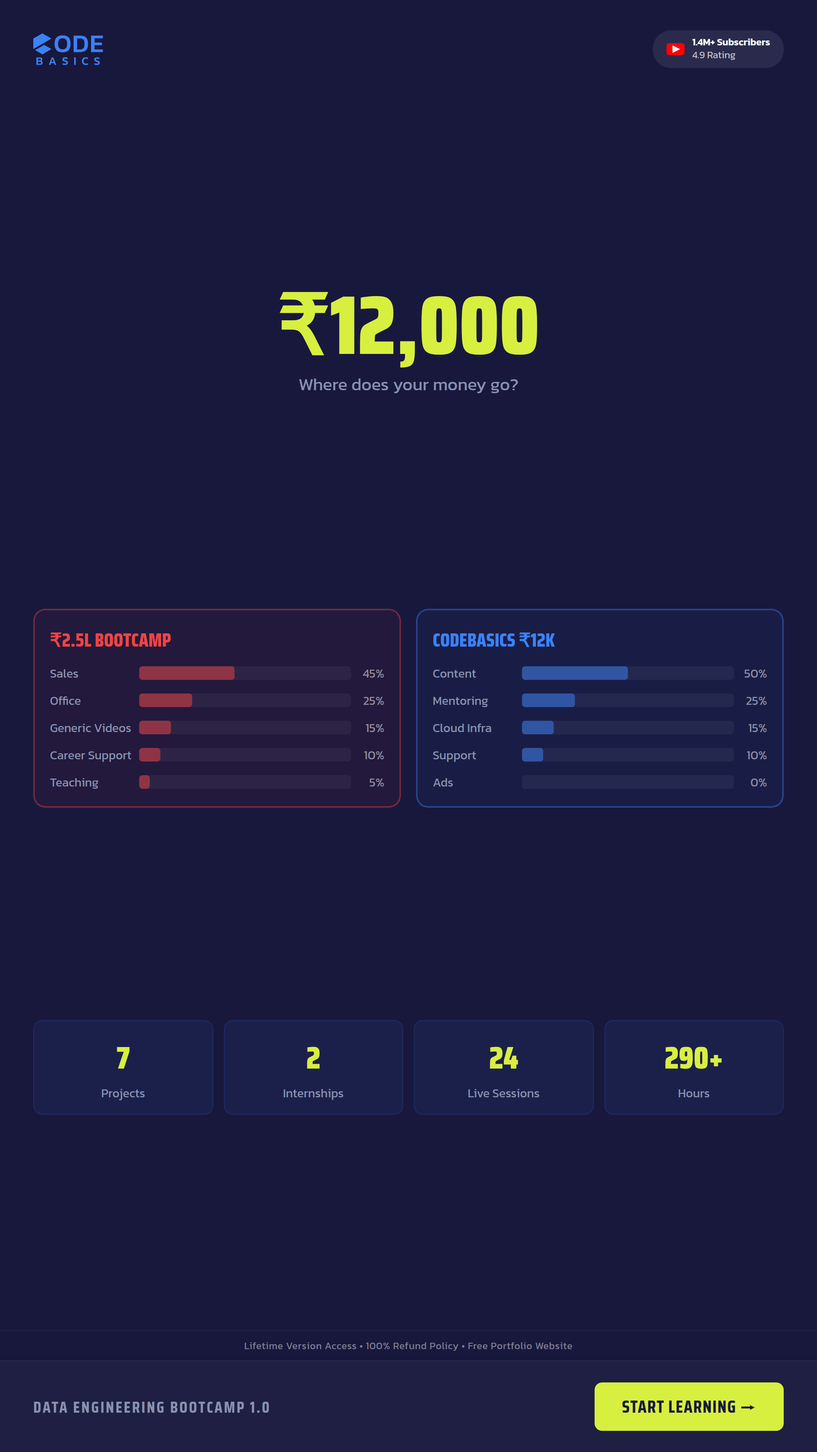
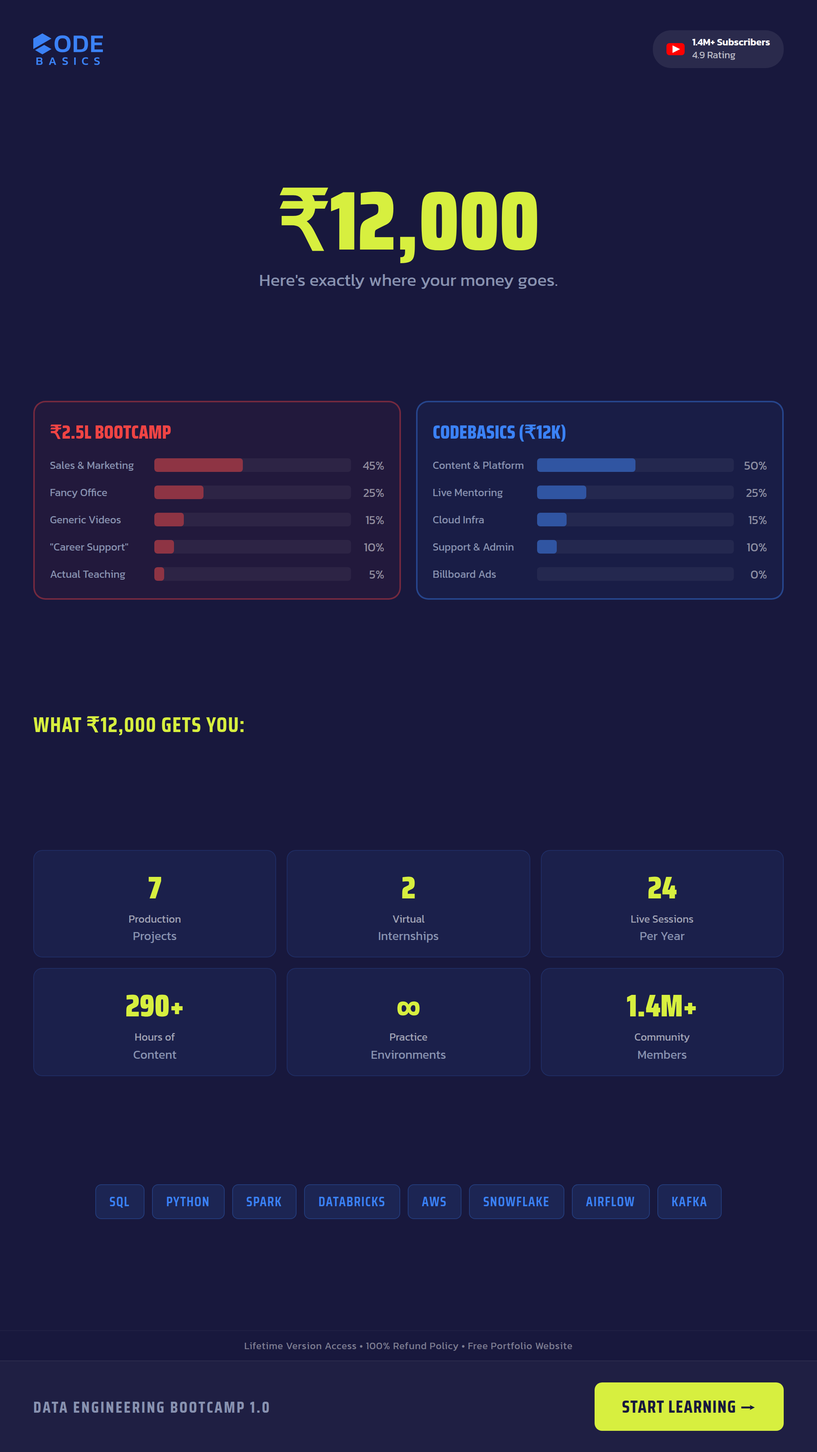
Update CONCEPT2 story + landscape with exact content to match square
- All 3 CONCEPT2 formats now have identical content:
  Full comparison labels (Sales & Marketing, Fancy Office, etc.)
  "What ₹12,000 Gets You:" heading with 6 value cards
  8 tech pills (SQL through KAFKA)
- Regenerated story and landscape PNGs at 2x resolution

https://claude.ai/code/session_01TbjDQjG9557EXEwBaycqRj

diff --git a/fix-concept2-all.js b/fix-concept2-all.js
@@ -1,0 +1,178 @@
+const fs = require('fs');
+const path = require('path');
+
+function updateContent(html) {
+  // 1. Update subtitle text
+  html = html.replace(
+    'Where does your money go?',
+    "Here's exactly where your money goes."
+  );
+
+  // 2. Update left comparison box labels
+  html = html.replace(/<span class="bar-label">Sales<\/span>/, '<span class="bar-label">Sales & Marketing</span>');
+  html = html.replace(/<span class="bar-label">Office<\/span>/, '<span class="bar-label">Fancy Office</span>');
+  // Generic Videos stays the same
+  html = html.replace(/<span class="bar-label">Career Support<\/span>/, '<span class="bar-label">"Career Support"</span>');
+  html = html.replace(/<span class="bar-label">Teaching<\/span>/, '<span class="bar-label">Actual Teaching</span>');
+
+  // 3. Update right comparison box title and labels
+  html = html.replace('Codebasics ₹12K', 'Codebasics (₹12K)');
+  html = html.replace(/<span class="bar-label">Content<\/span>/, '<span class="bar-label">Content & Platform</span>');
+  html = html.replace(/<span class="bar-label">Mentoring<\/span>/, '<span class="bar-label">Live Mentoring</span>');
+  // Cloud Infra stays the same
+  html = html.replace(/<span class="bar-label">Support<\/span>/, '<span class="bar-label">Support & Admin</span>');
+  html = html.replace(/<span class="bar-label">Ads<\/span>/, '<span class="bar-label">Billboard Ads</span>');
+
+  return html;
+}
+
+// ============ STORY ============
+const storyFile = path.resolve(__dirname, 'ads/story/CONCEPT2_STORY_1080x1920.html');
+let storyHtml = fs.readFileSync(storyFile, 'utf8');
+
+storyHtml = updateContent(storyHtml);
+
+// Replace value grid with 6-item grid + heading + tech pills
+const storyOldGrid = `<div class="value-grid">
+      <div class="value-card"><div class="value-num">7</div><div class="value-label">Projects</div></div>
+      <div class="value-card"><div class="value-num">2</div><div class="value-label">Internships</div></div>
+      <div class="value-card"><div class="value-num">24</div><div class="value-label">Live Sessions</div></div>
+      <div class="value-card"><div class="value-num">290+</div><div class="value-label">Hours</div></div>
+    </div>`;
+
+const storyNewGrid = `<div class="value-heading">What ₹12,000 Gets You:</div>
+    <div class="value-grid">
+      <div class="value-card"><div class="value-num">7</div><div class="value-sub">Production</div><div class="value-label">Projects</div></div>
+      <div class="value-card"><div class="value-num">2</div><div class="value-sub">Virtual</div><div class="value-label">Internships</div></div>
+      <div class="value-card"><div class="value-num">24</div><div class="value-sub">Live Sessions</div><div class="value-label">Per Year</div></div>
+      <div class="value-card"><div class="value-num">290+</div><div class="value-sub">Hours of</div><div class="value-label">Content</div></div>
+      <div class="value-card"><div class="value-num">∞</div><div class="value-sub">Practice</div><div class="value-label">Environments</div></div>
+      <div class="value-card"><div class="value-num">1.4M+</div><div class="value-sub">Community</div><div class="value-label">Members</div></div>
+    </div>
+    <div class="tech-pills">
+      <span class="pill">SQL</span>
+      <span class="pill">PYTHON</span>
+      <span class="pill">SPARK</span>
+      <span class="pill">DATABRICKS</span>
+      <span class="pill">AWS</span>
+      <span class="pill">SNOWFLAKE</span>
+      <span class="pill">AIRFLOW</span>
+      <span class="pill">KAFKA</span>
+    </div>`;
+
+storyHtml = storyHtml.replace(storyOldGrid, storyNewGrid);
+
+// Update grid to 3 columns
+storyHtml = storyHtml.replace(
+  '.value-grid{display:grid;grid-template-columns:repeat(4,1fr);gap:14px}',
+  '.value-grid{display:grid;grid-template-columns:repeat(3,1fr);gap:14px}'
+);
+
+// Widen bar-label for story
+storyHtml = storyHtml.replace(
+  '.bar-label{font-size:16px;color:#8892b0;width:110px;',
+  '.bar-label{font-size:14px;color:#8892b0;width:130px;'
+);
+
+// Add new CSS for story before .cta-bar
+const storyCss = `.value-heading{font-family:'Saira Condensed',sans-serif;font-weight:700;font-size:28px;color:#D7EF3F;text-transform:uppercase;letter-spacing:1px}
+.value-sub{font-size:14px;color:rgba(255,255,255,.6);margin-top:2px;line-height:1.1}
+.tech-pills{display:flex;flex-wrap:wrap;gap:10px;justify-content:center}
+.pill{background:rgba(59,130,246,.12);border:1px solid rgba(59,130,246,.25);border-radius:8px;padding:8px 18px;font-family:'Saira Condensed',sans-serif;font-weight:600;font-size:18px;color:#3B82F6;text-transform:uppercase;letter-spacing:1px}
+`;
+storyHtml = storyHtml.replace('.cta-bar{', storyCss + '.cta-bar{');
+
+fs.writeFileSync(storyFile, storyHtml, 'utf8');
+console.log('Updated CONCEPT2_STORY_1080x1920.html');
+
+// ============ LANDSCAPE ============
+const landFile = path.resolve(__dirname, 'ads/landscape/CONCEPT2_LANDSCAPE_1200x628.html');
+let landHtml = fs.readFileSync(landFile, 'utf8');
+
+landHtml = updateContent(landHtml);
+
+// Replace value grid with 6-item grid + heading + tech pills
+// Landscape has a different structure: value-grid is inside .left
+const landOldGrid = `<div class="value-grid">
+        <div class="value-card"><div class="value-num">7</div><div class="value-label">Projects</div></div>
+        <div class="value-card"><div class="value-num">2</div><div class="value-label">Internships</div></div>
+        <div class="value-card"><div class="value-num">24</div><div class="value-label">Live Sessions</div></div>
+        <div class="value-card"><div class="value-num">290+</div><div class="value-label">Hours</div></div>
+      </div>`;
+
+const landNewGrid = `<div class="value-heading">What ₹12,000 Gets You:</div>
+      <div class="value-grid">
+        <div class="value-card"><div class="value-num">7</div><div class="value-sub">Production</div><div class="value-label">Projects</div></div>
+        <div class="value-card"><div class="value-num">2</div><div class="value-sub">Virtual</div><div class="value-label">Internships</div></div>
+        <div class="value-card"><div class="value-num">24</div><div class="value-sub">Live Sessions</div><div class="value-label">Per Year</div></div>
+        <div class="value-card"><div class="value-num">290+</div><div class="value-sub">Hours of</div><div class="value-label">Content</div></div>
+        <div class="value-card"><div class="value-num">∞</div><div class="value-sub">Practice</div><div class="value-label">Environments</div></div>
+        <div class="value-card"><div class="value-num">1.4M+</div><div class="value-sub">Community</div><div class="value-label">Members</div></div>
+      </div>
+      <div class="tech-pills">
+        <span class="pill">SQL</span>
+        <span class="pill">PYTHON</span>
+        <span class="pill">SPARK</span>
+        <span class="pill">DATABRICKS</span>
+        <span class="pill">AWS</span>
+        <span class="pill">SNOWFLAKE</span>
+        <span class="pill">AIRFLOW</span>
+        <span class="pill">KAFKA</span>
+      </div>`;
+
+landHtml = landHtml.replace(landOldGrid, landNewGrid);
+
+// Update grid to 3 columns for landscape
+landHtml = landHtml.replace(
+  '.value-grid{display:grid;grid-template-columns:repeat(2,1fr);gap:8px}',
+  '.value-grid{display:grid;grid-template-columns:repeat(3,1fr);gap:6px}'
+);
+
+// Widen bar-label for landscape (longer labels)
+landHtml = landHtml.replace(
+  '.bar-label{font-size:12px;color:#8892b0;width:76px;',
+  '.bar-label{font-size:10px;color:#8892b0;width:90px;'
+);
+
+// Reduce left panel width to give more room
+landHtml = landHtml.replace(
+  '.left{flex:0 0 30%;',
+  '.left{flex:0 0 34%;'
+);
+
+// Reduce value card padding and num size for landscape to fit 6 items
+landHtml = landHtml.replace(
+  '.value-card{background:rgba(59,130,246,.08);border:1px solid rgba(59,130,246,.15);border-radius:8px;padding:8px 6px;text-align:center}',
+  '.value-card{background:rgba(59,130,246,.08);border:1px solid rgba(59,130,246,.15);border-radius:6px;padding:4px 4px;text-align:center}'
+);
+landHtml = landHtml.replace(
+  ".value-num{font-family:'Saira Condensed',sans-serif;font-weight:900;font-size:25px;",
+  ".value-num{font-family:'Saira Condensed',sans-serif;font-weight:900;font-size:18px;"
+);
+
+// Reduce price font for landscape to fit
+landHtml = landHtml.replace(
+  ".price-hero .big{font-family:'Saira Condensed',sans-serif;font-weight:900;font-size:64px;",
+  ".price-hero .big{font-family:'Saira Condensed',sans-serif;font-weight:900;font-size:52px;"
+);
+landHtml = landHtml.replace(
+  '.price-hero .sub{font-size:15px;',
+  '.price-hero .sub{font-size:12px;'
+);
+
+// Reduce left gap
+landHtml = landHtml.replace(
+  'justify-content:center;gap:14px}',
+  'justify-content:center;gap:8px}'
+);
+
+// Add new CSS for landscape before .cta-bar
+const landCss = `.value-heading{font-family:'Saira Condensed',sans-serif;font-weight:700;font-size:13px;color:#D7EF3F;text-transform:uppercase;letter-spacing:1px}
+.value-sub{font-size:8px;color:rgba(255,255,255,.6);margin-top:1px;line-height:1.1}
+.tech-pills{display:flex;flex-wrap:wrap;gap:4px;justify-content:center}
+.pill{background:rgba(59,130,246,.12);border:1px solid rgba(59,130,246,.25);border-radius:4px;padding:3px 8px;font-family:'Saira Condensed',sans-serif;font-weight:600;font-size:9px;color:#3B82F6;text-transform:uppercase;letter-spacing:1px}
+`;
+landHtml = landHtml.replace('.cta-bar{', landCss + '.cta-bar{');
+
+fs.writeFileSync(landFile, landHtml, 'utf8');
+console.log('Updated CONCEPT2_LANDSCAPE_1200x628.html');

diff --git a/ads/landscape/CONCEPT2_LANDSCAPE_1200x628.html b/ads/landscape/CONCEPT2_LANDSCAPE_1200x628.html
@@ -30,12 +30,12 @@ body{width:1200px;height:628px;overflow:hidden;font-family:'Kanit',sans-serif}
 
 .main{flex:1;display:flex;gap:24px;padding:14px 32px;min-height:0}
 
-.left{flex:0 0 30%;display:flex;flex-direction:column;justify-content:center;gap:14px}
-.price-hero .big{font-family:'Saira Condensed',sans-serif;font-weight:900;font-size:64px;color:#D7EF3F;line-height:1}
-.price-hero .sub{font-size:15px;color:#8892b0;margin-top:2px}
-.value-grid{display:grid;grid-template-columns:repeat(2,1fr);gap:8px}
-.value-card{background:rgba(59,130,246,.08);border:1px solid rgba(59,130,246,.15);border-radius:8px;padding:8px 6px;text-align:center}
-.value-num{font-family:'Saira Condensed',sans-serif;font-weight:900;font-size:25px;color:#D7EF3F}
+.left{flex:0 0 34%;display:flex;flex-direction:column;justify-content:center;gap:8px}
+.price-hero .big{font-family:'Saira Condensed',sans-serif;font-weight:900;font-size:52px;color:#D7EF3F;line-height:1}
+.price-hero .sub{font-size:12px;color:#8892b0;margin-top:2px}
+.value-grid{display:grid;grid-template-columns:repeat(3,1fr);gap:6px}
+.value-card{background:rgba(59,130,246,.08);border:1px solid rgba(59,130,246,.15);border-radius:6px;padding:4px 4px;text-align:center}
+.value-num{font-family:'Saira Condensed',sans-serif;font-weight:900;font-size:18px;color:#D7EF3F}
 .value-label{font-size:10px;color:#8892b0;margin-top:1px}
 
 .right{flex:1;display:flex;gap:14px;min-height:0}
@@ -46,13 +46,17 @@ body{width:1200px;height:628px;overflow:hidden;font-family:'Kanit',sans-serif}
 .comp-box.red .comp-title{color:#ef4444}
 .comp-box.blue .comp-title{color:#3B82F6}
 .bar-row{display:flex;align-items:center;gap:6px}
-.bar-label{font-size:12px;color:#8892b0;width:76px;flex-shrink:0}
+.bar-label{font-size:10px;color:#8892b0;width:90px;flex-shrink:0}
 .bar-track{flex:1;height:12px;background:rgba(255,255,255,.05);border-radius:3px;overflow:hidden}
 .bar-fill{height:100%;border-radius:3px}
 .comp-box.red .bar-fill{background:rgba(239,68,68,.5)}
 .comp-box.blue .bar-fill{background:rgba(59,130,246,.5)}
 .bar-pct{font-size:12px;color:rgba(255,255,255,.5);width:28px;text-align:right;flex-shrink:0}
 
+.value-heading{font-family:'Saira Condensed',sans-serif;font-weight:700;font-size:13px;color:#D7EF3F;text-transform:uppercase;letter-spacing:1px}
+.value-sub{font-size:8px;color:rgba(255,255,255,.6);margin-top:1px;line-height:1.1}
+.tech-pills{display:flex;flex-wrap:wrap;gap:4px;justify-content:center}
+.pill{background:rgba(59,130,246,.12);border:1px solid rgba(59,130,246,.25);border-radius:4px;padding:3px 8px;font-family:'Saira Condensed',sans-serif;font-weight:600;font-size:9px;color:#3B82F6;text-transform:uppercase;letter-spacing:1px}
 .cta-bar{display:flex;justify-content:space-between;align-items:center;padding:14px 32px;background:rgba(255,255,255,.03);border-top:1px solid rgba(255,255,255,.06);flex-shrink:0}
 .cta-label{font-family:'Saira Condensed',sans-serif;font-weight:700;font-size:15px;text-transform:uppercase;letter-spacing:2px;color:#8892b0}
 .cta-btn{background:#D7EF3F;color:#18183D;font-family:'Saira Condensed',sans-serif;font-weight:700;font-size:16px;padding:8px 24px;border-radius:7px;border:none;text-transform:uppercase;letter-spacing:1px;cursor:pointer;white-space:nowrap}
@@ -67,30 +71,43 @@ body{width:1200px;height:628px;overflow:hidden;font-family:'Kanit',sans-serif}
   </div>
   <div class="main">
     <div class="left">
-      <div class="price-hero"><div class="big">₹12,000</div><div class="sub">Where does your money go?</div></div>
+      <div class="price-hero"><div class="big">₹12,000</div><div class="sub">Here's exactly where your money goes.</div></div>
+      <div class="value-heading">What ₹12,000 Gets You:</div>
       <div class="value-grid">
-        <div class="value-card"><div class="value-num">7</div><div class="value-label">Projects</div></div>
-        <div class="value-card"><div class="value-num">2</div><div class="value-label">Internships</div></div>
-        <div class="value-card"><div class="value-num">24</div><div class="value-label">Live Sessions</div></div>
-        <div class="value-card"><div class="value-num">290+</div><div class="value-label">Hours</div></div>
+        <div class="value-card"><div class="value-num">7</div><div class="value-sub">Production</div><div class="value-label">Projects</div></div>
+        <div class="value-card"><div class="value-num">2</div><div class="value-sub">Virtual</div><div class="value-label">Internships</div></div>
+        <div class="value-card"><div class="value-num">24</div><div class="value-sub">Live Sessions</div><div class="value-label">Per Year</div></div>
+        <div class="value-card"><div class="value-num">290+</div><div class="value-sub">Hours of</div><div class="value-label">Content</div></div>
+        <div class="value-card"><div class="value-num">∞</div><div class="value-sub">Practice</div><div class="value-label">Environments</div></div>
+        <div class="value-card"><div class="value-num">1.4M+</div><div class="value-sub">Community</div><div class="value-label">Members</div></div>
+      </div>
+      <div class="tech-pills">
+        <span class="pill">SQL</span>
+        <span class="pill">PYTHON</span>
+        <span class="pill">SPARK</span>
+        <span class="pill">DATABRICKS</span>
+        <span class="pill">AWS</span>
+        <span class="pill">SNOWFLAKE</span>
+        <span class="pill">AIRFLOW</span>
+        <span class="pill">KAFKA</span>
       </div>
     </div>
     <div class="right">
       <div class="comp-box red">
         <div class="comp-title">₹2.5L Bootcamp</div>
-        <div class="bar-row"><span class="bar-label">Sales</span><div class="bar-track"><div class="bar-fill" style="width:45%"></div></div><span class="bar-pct">45%</span></div>
-        <div class="bar-row"><span class="bar-label">Office</span><div class="bar-track"><div class="bar-fill" style="width:25%"></div></div><span class="bar-pct">25%</span></div>
+        <div class="bar-row"><span class="bar-label">Sales & Marketing</span><div class="bar-track"><div class="bar-fill" style="width:45%"></div></div><span class="bar-pct">45%</span></div>
+        <div class="bar-row"><span class="bar-label">Fancy Office</span><div class="bar-track"><div class="bar-fill" style="width:25%"></div></div><span class="bar-pct">25%</span></div>
         <div class="bar-row"><span class="bar-label">Generic Videos</span><div class="bar-track"><div class="bar-fill" style="width:15%"></div></div><span class="bar-pct">15%</span></div>
-        <div class="bar-row"><span class="bar-label">Career Support</span><div class="bar-track"><div class="bar-fill" style="width:10%"></div></div><span class="bar-pct">10%</span></div>
-        <div class="bar-row"><span class="bar-label">Teaching</span><div class="bar-track"><div class="bar-fill" style="width:5%"></div></div><span class="bar-pct">5%</span></div>
+        <div class="bar-row"><span class="bar-label">"Career Support"</span><div class="bar-track"><div class="bar-fill" style="width:10%"></div></div><span class="bar-pct">10%</span></div>
+        <div class="bar-row"><span class="bar-label">Actual Teaching</span><div class="bar-track"><div class="bar-fill" style="width:5%"></div></div><span class="bar-pct">5%</span></div>
       </div>
       <div class="comp-box blue">
-        <div class="comp-title">Codebasics ₹12K</div>
-        <div class="bar-row"><span class="bar-label">Content</span><div class="bar-track"><div class="bar-fill" style="width:50%"></div></div><span class="bar-pct">50%</span></div>
-        <div class="bar-row"><span class="bar-label">Mentoring</span><div class="bar-track"><div class="bar-fill" style="width:25%"></div></div><span class="bar-pct">25%</span></div>
+        <div class="comp-title">Codebasics (₹12K)</div>
+        <div class="bar-row"><span class="bar-label">Content & Platform</span><div class="bar-track"><div class="bar-fill" style="width:50%"></div></div><span class="bar-pct">50%</span></div>
+        <div class="bar-row"><span class="bar-label">Live Mentoring</span><div class="bar-track"><div class="bar-fill" style="width:25%"></div></div><span class="bar-pct">25%</span></div>
         <div class="bar-row"><span class="bar-label">Cloud Infra</span><div class="bar-track"><div class="bar-fill" style="width:15%"></div></div><span class="bar-pct">15%</span></div>
-        <div class="bar-row"><span class="bar-label">Support</span><div class="bar-track"><div class="bar-fill" style="width:10%"></div></div><span class="bar-pct">10%</span></div>
-        <div class="bar-row"><span class="bar-label">Ads</span><div class="bar-track"><div class="bar-fill" style="width:0%"></div></div><span class="bar-pct">0%</span></div>
+        <div class="bar-row"><span class="bar-label">Support & Admin</span><div class="bar-track"><div class="bar-fill" style="width:10%"></div></div><span class="bar-pct">10%</span></div>
+        <div class="bar-row"><span class="bar-label">Billboard Ads</span><div class="bar-track"><div class="bar-fill" style="width:0%"></div></div><span class="bar-pct">0%</span></div>
       </div>
     </div>
   </div>

diff --git a/ads/story/CONCEPT2_STORY_1080x1920.html b/ads/story/CONCEPT2_STORY_1080x1920.html
@@ -42,18 +42,22 @@ body{width:1080px;height:1920px;overflow:hidden;font-family:'Kanit',sans-serif}
 .comp-box.red .comp-title{color:#ef4444}
 .comp-box.blue .comp-title{color:#3B82F6}
 .bar-row{display:flex;align-items:center;gap:8px}
-.bar-label{font-size:16px;color:#8892b0;width:110px;flex-shrink:0}
+.bar-label{font-size:14px;color:#8892b0;width:130px;flex-shrink:0}
 .bar-track{flex:1;height:18px;background:rgba(255,255,255,.05);border-radius:4px;overflow:hidden}
 .bar-fill{height:100%;border-radius:4px}
 .comp-box.red .bar-fill{background:rgba(239,68,68,.5)}
 .comp-box.blue .bar-fill{background:rgba(59,130,246,.5)}
 .bar-pct{font-size:16px;color:rgba(255,255,255,.5);width:36px;text-align:right;flex-shrink:0}
 
-.value-grid{display:grid;grid-template-columns:repeat(4,1fr);gap:14px}
+.value-grid{display:grid;grid-template-columns:repeat(3,1fr);gap:14px}
 .value-card{background:rgba(59,130,246,.08);border:1px solid rgba(59,130,246,.15);border-radius:12px;padding:16px 10px;text-align:center}
 .value-num{font-family:'Saira Condensed',sans-serif;font-weight:900;font-size:41px;color:#D7EF3F}
 .value-label{font-size:16px;color:#8892b0;margin-top:2px}
 
+.value-heading{font-family:'Saira Condensed',sans-serif;font-weight:700;font-size:28px;color:#D7EF3F;text-transform:uppercase;letter-spacing:1px}
+.value-sub{font-size:14px;color:rgba(255,255,255,.6);margin-top:2px;line-height:1.1}
+.tech-pills{display:flex;flex-wrap:wrap;gap:10px;justify-content:center}
+.pill{background:rgba(59,130,246,.12);border:1px solid rgba(59,130,246,.25);border-radius:8px;padding:8px 18px;font-family:'Saira Condensed',sans-serif;font-weight:600;font-size:18px;color:#3B82F6;text-transform:uppercase;letter-spacing:1px}
 .cta-bar{display:flex;justify-content:space-between;align-items:center;padding:28px 44px;background:rgba(255,255,255,.03);border-top:1px solid rgba(255,255,255,.06);flex-shrink:0}
 .cta-label{font-family:'Saira Condensed',sans-serif;font-weight:700;font-size:21px;text-transform:uppercase;letter-spacing:2px;color:#8892b0}
 .cta-btn{background:#D7EF3F;color:#18183D;font-family:'Saira Condensed',sans-serif;font-weight:700;font-size:23px;padding:14px 36px;border-radius:10px;border:none;text-transform:uppercase;letter-spacing:1px;cursor:pointer;white-space:nowrap}
@@ -67,30 +71,43 @@ body{width:1080px;height:1920px;overflow:hidden;font-family:'Kanit',sans-serif}
     <div class="yt-badge"><div class="yt-icon"></div><div class="yt-text"><strong>1.4M+ Subscribers</strong><br>4.9 Rating</div></div>
   </div>
   <div class="main">
-    <div class="price-hero"><div class="big">₹12,000</div><div class="sub">Where does your money go?</div></div>
+    <div class="price-hero"><div class="big">₹12,000</div><div class="sub">Here's exactly where your money goes.</div></div>
     <div class="comparison">
       <div class="comp-box red">
         <div class="comp-title">₹2.5L Bootcamp</div>
-        <div class="bar-row"><span class="bar-label">Sales</span><div class="bar-track"><div class="bar-fill" style="width:45%"></div></div><span class="bar-pct">45%</span></div>
-        <div class="bar-row"><span class="bar-label">Office</span><div class="bar-track"><div class="bar-fill" style="width:25%"></div></div><span class="bar-pct">25%</span></div>
+        <div class="bar-row"><span class="bar-label">Sales & Marketing</span><div class="bar-track"><div class="bar-fill" style="width:45%"></div></div><span class="bar-pct">45%</span></div>
+        <div class="bar-row"><span class="bar-label">Fancy Office</span><div class="bar-track"><div class="bar-fill" style="width:25%"></div></div><span class="bar-pct">25%</span></div>
         <div class="bar-row"><span class="bar-label">Generic Videos</span><div class="bar-track"><div class="bar-fill" style="width:15%"></div></div><span class="bar-pct">15%</span></div>
-        <div class="bar-row"><span class="bar-label">Career Support</span><div class="bar-track"><div class="bar-fill" style="width:10%"></div></div><span class="bar-pct">10%</span></div>
-        <div class="bar-row"><span class="bar-label">Teaching</span><div class="bar-track"><div class="bar-fill" style="width:5%"></div></div><span class="bar-pct">5%</span></div>
+        <div class="bar-row"><span class="bar-label">"Career Support"</span><div class="bar-track"><div class="bar-fill" style="width:10%"></div></div><span class="bar-pct">10%</span></div>
+        <div class="bar-row"><span class="bar-label">Actual Teaching</span><div class="bar-track"><div class="bar-fill" style="width:5%"></div></div><span class="bar-pct">5%</span></div>
       </div>
       <div class="comp-box blue">
-        <div class="comp-title">Codebasics ₹12K</div>
-        <div class="bar-row"><span class="bar-label">Content</span><div class="bar-track"><div class="bar-fill" style="width:50%"></div></div><span class="bar-pct">50%</span></div>
-        <div class="bar-row"><span class="bar-label">Mentoring</span><div class="bar-track"><div class="bar-fill" style="width:25%"></div></div><span class="bar-pct">25%</span></div>
+        <div class="comp-title">Codebasics (₹12K)</div>
+        <div class="bar-row"><span class="bar-label">Content & Platform</span><div class="bar-track"><div class="bar-fill" style="width:50%"></div></div><span class="bar-pct">50%</span></div>
+        <div class="bar-row"><span class="bar-label">Live Mentoring</span><div class="bar-track"><div class="bar-fill" style="width:25%"></div></div><span class="bar-pct">25%</span></div>
         <div class="bar-row"><span class="bar-label">Cloud Infra</span><div class="bar-track"><div class="bar-fill" style="width:15%"></div></div><span class="bar-pct">15%</span></div>
-        <div class="bar-row"><span class="bar-label">Support</span><div class="bar-track"><div class="bar-fill" style="width:10%"></div></div><span class="bar-pct">10%</span></div>
-        <div class="bar-row"><span class="bar-label">Ads</span><div class="bar-track"><div class="bar-fill" style="width:0%"></div></div><span class="bar-pct">0%</span></div>
+        <div class="bar-row"><span class="bar-label">Support & Admin</span><div class="bar-track"><div class="bar-fill" style="width:10%"></div></div><span class="bar-pct">10%</span></div>
+        <div class="bar-row"><span class="bar-label">Billboard Ads</span><div class="bar-track"><div class="bar-fill" style="width:0%"></div></div><span class="bar-pct">0%</span></div>
       </div>
     </div>
+    <div class="value-heading">What ₹12,000 Gets You:</div>
     <div class="value-grid">
-      <div class="value-card"><div class="value-num">7</div><div class="value-label">Projects</div></div>
-      <div class="value-card"><div class="value-num">2</div><div class="value-label">Internships</div></div>
-      <div class="value-card"><div class="value-num">24</div><div class="value-label">Live Sessions</div></div>
-      <div class="value-card"><div class="value-num">290+</div><div class="value-label">Hours</div></div>
+      <div class="value-card"><div class="value-num">7</div><div class="value-sub">Production</div><div class="value-label">Projects</div></div>
+      <div class="value-card"><div class="value-num">2</div><div class="value-sub">Virtual</div><div class="value-label">Internships</div></div>
+      <div class="value-card"><div class="value-num">24</div><div class="value-sub">Live Sessions</div><div class="value-label">Per Year</div></div>
+      <div class="value-card"><div class="value-num">290+</div><div class="value-sub">Hours of</div><div class="value-label">Content</div></div>
+      <div class="value-card"><div class="value-num">∞</div><div class="value-sub">Practice</div><div class="value-label">Environments</div></div>
+      <div class="value-card"><div class="value-num">1.4M+</div><div class="value-sub">Community</div><div class="value-label">Members</div></div>
+    </div>
+    <div class="tech-pills">
+      <span class="pill">SQL</span>
+      <span class="pill">PYTHON</span>
+      <span class="pill">SPARK</span>
+      <span class="pill">DATABRICKS</span>
+      <span class="pill">AWS</span>
+      <span class="pill">SNOWFLAKE</span>
+      <span class="pill">AIRFLOW</span>
+      <span class="pill">KAFKA</span>
     </div>
   </div>
   <div class="trust-strip">Lifetime Version Access • 100% Refund Policy • Free Portfolio Website</div>
